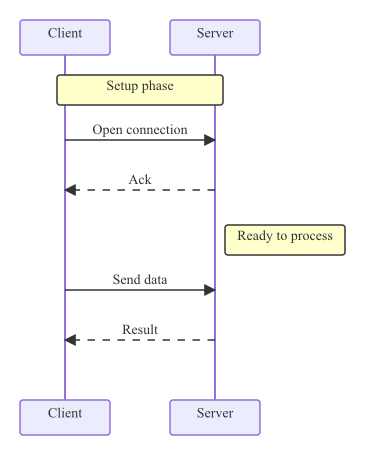
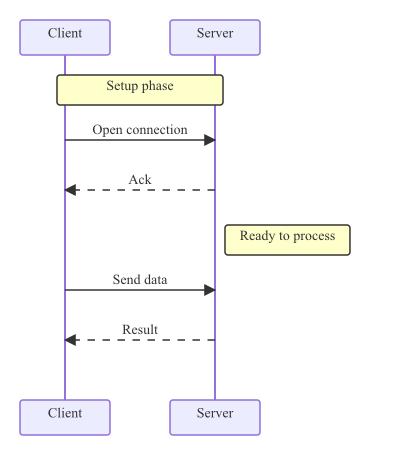
sequence: size note rectangles to fit multi-line and long text (#216)
Note rects were hardcoded to 120x30, so wider single-line text and any
<br/>-separated multi-line note overflowed the box. Compute width from
the widest measured line (with notePad) and grow height by the layout's
labelLineHeight per extra line; "Note over" still expands at minimum to
span the participants. noteBleed now uses the same width calculation so
left/right notes on edge participants don't clip at the viewBox.

diff --git a/pkg/renderer/sequence/renderer_test.go b/pkg/renderer/sequence/renderer_test.go
@@ -1613,6 +1613,147 @@ func TestRenderNoteOverTwo(t *testing.T) {
 	assertValidSVG(t, out)
 }
 
+// TestRenderNoteOverEdgeParticipantNoClip guards that a long "Note over"
+// anchored at an edge participant doesn't clip past the viewBox.
+// noteBleed used to handle only NotePositionLeft/Right; once renderNote
+// started growing rect width with text, edge "Note over" started
+// rendering at negative x (or past totalW).
+func TestRenderNoteOverEdgeParticipantNoClip(t *testing.T) {
+	const longNote = "this is a much longer note than the participant box width"
+	d := &diagram.SequenceDiagram{
+		Participants: []diagram.Participant{
+			{ID: "A", Kind: diagram.ParticipantKindParticipant, CreatedAtItem: -1, DestroyedAtItem: -1},
+			{ID: "B", Kind: diagram.ParticipantKindParticipant, CreatedAtItem: -1, DestroyedAtItem: -1},
+		},
+		Items: []diagram.SequenceItem{
+			diagram.NewNoteItem(diagram.Note{
+				Participants: []string{"A"},
+				Text:         longNote,
+				Position:     diagram.NotePositionOver,
+			}),
+		},
+	}
+	out, err := Render(d, nil)
+	if err != nil {
+		t.Fatalf("Render: %v", err)
+	}
+	raw := string(out)
+	vbRe := regexp.MustCompile(`viewBox="0 0 ([\d.]+) [\d.]+"`)
+	vbMatch := vbRe.FindStringSubmatch(raw)
+	if vbMatch == nil {
+		t.Fatal("viewBox not found")
+	}
+	totalW, _ := strconv.ParseFloat(vbMatch[1], 64)
+	noteRe := regexp.MustCompile(`<rect x="(-?[\d.]+)" y="-?[\d.]+" width="([\d.]+)" height="[\d.]+"[^>]*fill:` + regexp.QuoteMeta(DefaultTheme().NoteFill))
+	m := noteRe.FindStringSubmatch(raw)
+	if m == nil {
+		t.Fatal("note rect not found")
+	}
+	x, _ := strconv.ParseFloat(m[1], 64)
+	w, _ := strconv.ParseFloat(m[2], 64)
+	if x < 0 {
+		t.Errorf("note rect left edge x=%.2f is past viewBox left (0); noteBleed must reserve space for Note over on edge participant", x)
+	}
+	if x+w > totalW {
+		t.Errorf("note rect right edge %.2f exceeds viewBox width %.2f", x+w, totalW)
+	}
+	assertValidSVG(t, out)
+}
+
+// TestRenderNoteLargeFontReservesRowHeight guards that a note rendered
+// at a large fontSize (where the rect grows past defaultRowHeight)
+// reserves enough row clearance so the rect doesn't bleed into the
+// next item below. Regression for the case where noteHeight scaled
+// with fontSize but the per-note row advance still added only
+// extraLinesHeight (=0 for single-line text).
+func TestRenderNoteLargeFontReservesRowHeight(t *testing.T) {
+	d := &diagram.SequenceDiagram{
+		Participants: []diagram.Participant{
+			{ID: "A", Kind: diagram.ParticipantKindParticipant, CreatedAtItem: -1, DestroyedAtItem: -1},
+		},
+		Items: []diagram.SequenceItem{
+			diagram.NewNoteItem(diagram.Note{
+				Participants: []string{"A"},
+				Text:         "single line",
+				Position:     diagram.NotePositionOver,
+			}),
+			diagram.NewNoteItem(diagram.Note{
+				Participants: []string{"A"},
+				Text:         "another single line",
+				Position:     diagram.NotePositionOver,
+			}),
+		},
+	}
+	out, err := Render(d, &Options{FontSize: 40})
+	if err != nil {
+		t.Fatalf("Render: %v", err)
+	}
+	raw := string(out)
+	noteRe := regexp.MustCompile(`<rect x="-?[\d.]+" y="(-?[\d.]+)" width="[\d.]+" height="([\d.]+)"[^>]*fill:` + regexp.QuoteMeta(DefaultTheme().NoteFill))
+	matches := noteRe.FindAllStringSubmatch(raw, -1)
+	if len(matches) != 2 {
+		t.Fatalf("expected 2 note rects, got %d", len(matches))
+	}
+	parse := func(s string) float64 { v, _ := strconv.ParseFloat(s, 64); return v }
+	y0, h0 := parse(matches[0][1]), parse(matches[0][2])
+	y1 := parse(matches[1][1])
+	// Second rect's top must sit below the first rect's bottom.
+	if y1 < y0+h0 {
+		t.Errorf("second note (y=%.1f) overlaps first (y=%.1f, h=%.1f); row advance must accommodate noteHeight at fontSize=40", y1, y0, h0)
+	}
+	assertValidSVG(t, out)
+}
+
+// TestRenderNoteSizesToContent guards that note rectangles grow to fit
+// long single-line text and multi-line (<br/>) content, instead of
+// using the fixed 120x30 default that clipped wider notes.
+func TestRenderNoteSizesToContent(t *testing.T) {
+	d := &diagram.SequenceDiagram{
+		Participants: []diagram.Participant{
+			{ID: "A", Kind: diagram.ParticipantKindParticipant, CreatedAtItem: -1, DestroyedAtItem: -1},
+		},
+		Items: []diagram.SequenceItem{
+			diagram.NewNoteItem(diagram.Note{
+				Participants: []string{"A"},
+				Text:         "ViewModel emits new items;<br/>key() rebuilds grid",
+				Position:     diagram.NotePositionOver,
+			}),
+			diagram.NewNoteItem(diagram.Note{
+				Participants: []string{"A"},
+				Text:         "showRunnable never fires; alpha stays 0",
+				Position:     diagram.NotePositionOver,
+			}),
+		},
+	}
+	out, err := Render(d, nil)
+	if err != nil {
+		t.Fatalf("Render: %v", err)
+	}
+	raw := string(out)
+	noteRe := regexp.MustCompile(`<rect x="-?[\d.]+" y="-?[\d.]+" width="([\d.]+)" height="([\d.]+)"[^>]*fill:` + regexp.QuoteMeta(DefaultTheme().NoteFill))
+	matches := noteRe.FindAllStringSubmatch(raw, -1)
+	if len(matches) != 2 {
+		t.Fatalf("expected 2 note rects, got %d", len(matches))
+	}
+	parse := func(s string) float64 { v, _ := strconv.ParseFloat(s, 64); return v }
+	// Multi-line note: width must exceed default 120 to fit the longest
+	// line, and height must exceed default 30 to fit a second line.
+	if w := parse(matches[0][1]); w <= 120 {
+		t.Errorf("multi-line note width = %v; want > 120 to fit text", w)
+	}
+	if h := parse(matches[0][2]); h <= 30 {
+		t.Errorf("multi-line note height = %v; want > 30 to fit two lines", h)
+	}
+	// Long single-line note: width grows, height stays at default.
+	if w := parse(matches[1][1]); w <= 120 {
+		t.Errorf("long single-line note width = %v; want > 120 to fit text", w)
+	}
+	if h := parse(matches[1][2]); h != 30 {
+		t.Errorf("single-line note height = %v; want 30", h)
+	}
+	assertValidSVG(t, out)
+}
+
 func TestRenderBlockRegion(t *testing.T) {
 	d := &diagram.SequenceDiagram{
 		Participants: []diagram.Participant{

diff --git a/pkg/renderer/sequence/renderer.go b/pkg/renderer/sequence/renderer.go
@@ -3,6 +3,7 @@ package sequence
 import (
 	"encoding/xml"
 	"fmt"
+	"math"
 	"sync"
 
 	"github.com/julianshen/mmgo/pkg/diagram"
@@ -187,7 +188,7 @@ func computeLayout(d *diagram.SequenceDiagram, fontSize, pad float64) seqLayout 
 	// Notes anchored "right of" the last participant (and "left of"
 	// the first) extend past the participant boxes; reserve room so
 	// the note rect doesn't clip at the viewBox edge.
-	leftBleed, rightBleed := noteBleed(d.Items, pIndex, n)
+	leftBleed, rightBleed := noteBleed(d.Items, pIndex, n, fontSize)
 	sl, sr := selfMsgBleeds(d.Items, pIndex, n, fontSize)
 	if sl > leftBleed {
 		leftBleed = sl
@@ -300,11 +301,13 @@ func renderTitle(title string, lay seqLayout, th Theme, fontSize float64) []any 
 }
 
 // noteBleed returns the pixel extent past the leftmost and rightmost
-// participants needed to fit any "Note left of" / "Note right of"
-// items. Mirrors the geometry in messageRenderer.renderNote.
-func noteBleed(items []diagram.SequenceItem, pIndex map[string]int, n int) (left, right float64) {
-	const noteHalfW = 60.0 // half of noteW
-	const noteOff = 10.0   // matches noteOffset
+// participants needed to fit notes anchored at edge participants.
+// Mirrors the geometry in messageRenderer.renderNote, including width
+// growth for multi-line or long-text notes — covers all three positions
+// (left, right, over) so a long "Note over" attached to an edge
+// participant doesn't clip past x=0 / totalW.
+func noteBleed(items []diagram.SequenceItem, pIndex map[string]int, n int, fontSize float64) (left, right float64) {
+	const noteOff = 10.0 // matches noteOffset
 	for _, item := range items {
 		switch {
 		case item.Note != nil && len(item.Note.Participants) > 0:
@@ -312,22 +315,62 @@ func noteBleed(items []diagram.SequenceItem, pIndex map[string]int, n int) (left
 			if !ok {
 				continue
 			}
+			// Mirror renderNote's width formula so the bleed matches.
+			// Renamed from noteW to avoid shadowing the package-level
+			// noteW constant.
+			noteWidth := math.Max(noteW, noteTextWidth(item.Note.Text, fontSize)+2*notePad)
 			switch item.Note.Position {
 			case diagram.NotePositionLeft:
 				if idx == 0 {
-					if w := noteOff + 2*noteHalfW; w > left {
+					if w := noteOff + noteWidth; w > left {
 						left = w
 					}
 				}
 			case diagram.NotePositionRight:
 				if idx == n-1 {
-					if w := noteOff + 2*noteHalfW; w > right {
+					if w := noteOff + noteWidth; w > right {
 						right = w
 					}
 				}
+			case diagram.NotePositionOver:
+				// renderNote centers the rect at xs[idx] (single
+				// participant) or at the midpoint of two participants.
+				// Single participant: rect extends w/2 past the lifeline.
+				// Two-participant: cx is at the gap midpoint, so the
+				// extent past either edge lifeline is w/2 minus half
+				// the inter-participant gap. We don't know xs here, but
+				// the layout enforces a defaultParticipantGap floor on
+				// every gap, so subtracting half of that under-counts
+				// the actual mid-gap distance — which is fine: it just
+				// reserves a bit more headroom than strictly necessary.
+				minIdx, maxIdx := idx, idx
+				if len(item.Note.Participants) >= 2 {
+					if i2, ok2 := pIndex[item.Note.Participants[1]]; ok2 {
+						if i2 < minIdx {
+							minIdx = i2
+						}
+						if i2 > maxIdx {
+							maxIdx = i2
+						}
+					}
+				}
+				bleed := noteWidth / 2
+				if minIdx != maxIdx {
+					if span := bleed - defaultParticipantGap/2; span > 0 {
+						bleed = span
+					} else {
+						bleed = 0
+					}
+				}
+				if minIdx == 0 && bleed > left {
+					left = bleed
+				}
+				if maxIdx == n-1 && bleed > right {
+					right = bleed
+				}
 			}
 		case item.Block != nil:
-			l, r := noteBleed(item.Block.Items, pIndex, n)
+			l, r := noteBleed(item.Block.Items, pIndex, n, fontSize)
 			if l > left {
 				left = l
 			}
@@ -335,7 +378,7 @@ func noteBleed(items []diagram.SequenceItem, pIndex map[string]int, n int) (left
 				right = r
 			}
 			for _, br := range item.Block.Branches {
-				bl, br_ := noteBleed(br.Items, pIndex, n)
+				bl, br_ := noteBleed(br.Items, pIndex, n, fontSize)
 				if bl > left {
 					left = bl
 				}
@@ -492,7 +535,7 @@ func extraLabelHeight(items []diagram.SequenceItem, fontSize float64) float64 {
 				extra += selfLoopRowExtra(fontSize)
 			}
 		case item.Note != nil && item.Note.Text != "":
-			extra += extraLinesHeight(item.Note.Text, fontSize)
+			extra += noteRowExtra(item.Note.Text, fontSize)
 		case item.Block != nil:
 			// Non-rect blocks consume a full-row header so their
 			// b.Label inside the kind tab clears the first message

diff --git a/pkg/renderer/sequence/messages.go b/pkg/renderer/sequence/messages.go
@@ -117,7 +117,7 @@ func (mr *messageRenderer) renderItems(items []diagram.SequenceItem, isTopLevel 
 			mr.curY += advance
 		case item.Note != nil:
 			elems = append(elems, mr.renderNote(*item.Note)...)
-			mr.curY += defaultRowHeight + extraLinesHeight(item.Note.Text, mr.fontSize)
+			mr.curY += defaultRowHeight + noteRowExtra(item.Note.Text, mr.fontSize)
 		case item.Block != nil:
 			elems = append(elems, mr.renderBlock(*item.Block, depth)...)
 		}
@@ -286,8 +286,11 @@ func (mr *messageRenderer) renderNote(n diagram.Note) []any {
 	y := mr.curY
 	x0 := mr.lay.participantX[idx0]
 
+	textW := noteTextWidth(n.Text, mr.fontSize)
+	h := noteHeight(n.Text, mr.fontSize)
+
 	var cx float64
-	w := noteW
+	w := math.Max(noteW, textW+2*notePad)
 	switch n.Position {
 	case diagram.NotePositionLeft:
 		cx = x0 - noteOffset - w/2
@@ -301,7 +304,10 @@ func (mr *messageRenderer) renderNote(n diagram.Note) []any {
 			}
 			x1 := mr.lay.participantX[idx1]
 			cx = (x0 + x1) / 2
-			w = math.Abs(x1-x0) + 2*notePad
+			gapW := math.Abs(x1-x0) + 2*notePad
+			if gapW > w {
+				w = gapW
+			}
 		} else {
 			cx = x0
 		}
@@ -310,14 +316,58 @@ func (mr *messageRenderer) renderNote(n diagram.Note) []any {
 	rx := cx - w/2
 	out := []any{
 		&rect{
-			X: svgFloat(rx), Y: svgFloat(y - noteH/2),
-			Width: svgFloat(w), Height: svgFloat(noteH),
+			X: svgFloat(rx), Y: svgFloat(y - h/2),
+			Width: svgFloat(w), Height: svgFloat(h),
 			RX: 3, RY: 3,
 			Style: fmt.Sprintf("fill:%s;stroke:%s;stroke-width:%.1f", mr.th.NoteFill, mr.th.MessageStroke, defaultStrokeWidth),
 		},
 	}
 	out = append(out, multilineText(n.Text, cx, y, "middle", "central", mr.msgTextStyle, mr.fontSize)...)
 	return out
+}
+
+// noteTextWidth returns the widest rendered line within s (split on
+// Mermaid's <br> tokens). Used to size note rectangles so multi-line
+// or long-line content doesn't overflow the default 120px width.
+//
+// Prefers real font metrics (via measureLine, which uses the
+// package-shared Ruler) over EstimateWidth so the rect hugs the text
+// instead of inheriting EstimateWidth's ~20% overestimate as visible
+// padding. Falls back to EstimateWidth if the ruler is unavailable.
+func noteTextWidth(s string, fontSize float64) float64 {
+	var maxW float64
+	for _, ln := range splitLabelLines(s) {
+		w := measureLine(ln, fontSize)
+		if w == 0 {
+			w = textmeasure.EstimateWidth(ln, fontSize)
+		}
+		if w > maxW {
+			maxW = w
+		}
+	}
+	return maxW
+}
+
+// noteHeight returns the rect height needed to contain s as multi-line
+// text plus notePad of vertical padding. Floors at noteH so the default
+// 14px-font, single-line case keeps its existing 30px height; for larger
+// fonts or extra lines the rect grows to fit content + padding.
+func noteHeight(s string, fontSize float64) float64 {
+	n := len(splitLabelLines(s))
+	contentH := fontSize + float64(n-1)*labelLineHeight(fontSize) + 2*notePad
+	return math.Max(noteH, contentH)
+}
+
+// noteRowExtra returns the per-row vertical headroom needed for a note,
+// over and above defaultRowHeight. Both renderItems (curY advance) and
+// extraLabelHeight (layout reservation) call this so a note rect taller
+// than defaultRowHeight (large font, or many <br/> lines) doesn't bleed
+// into the next row's content.
+func noteRowExtra(s string, fontSize float64) float64 {
+	if extra := noteHeight(s, fontSize) - defaultRowHeight; extra > 0 {
+		return extra
+	}
+	return 0
 }
 
 func (mr *messageRenderer) renderBlock(b diagram.Block, depth int) []any {
